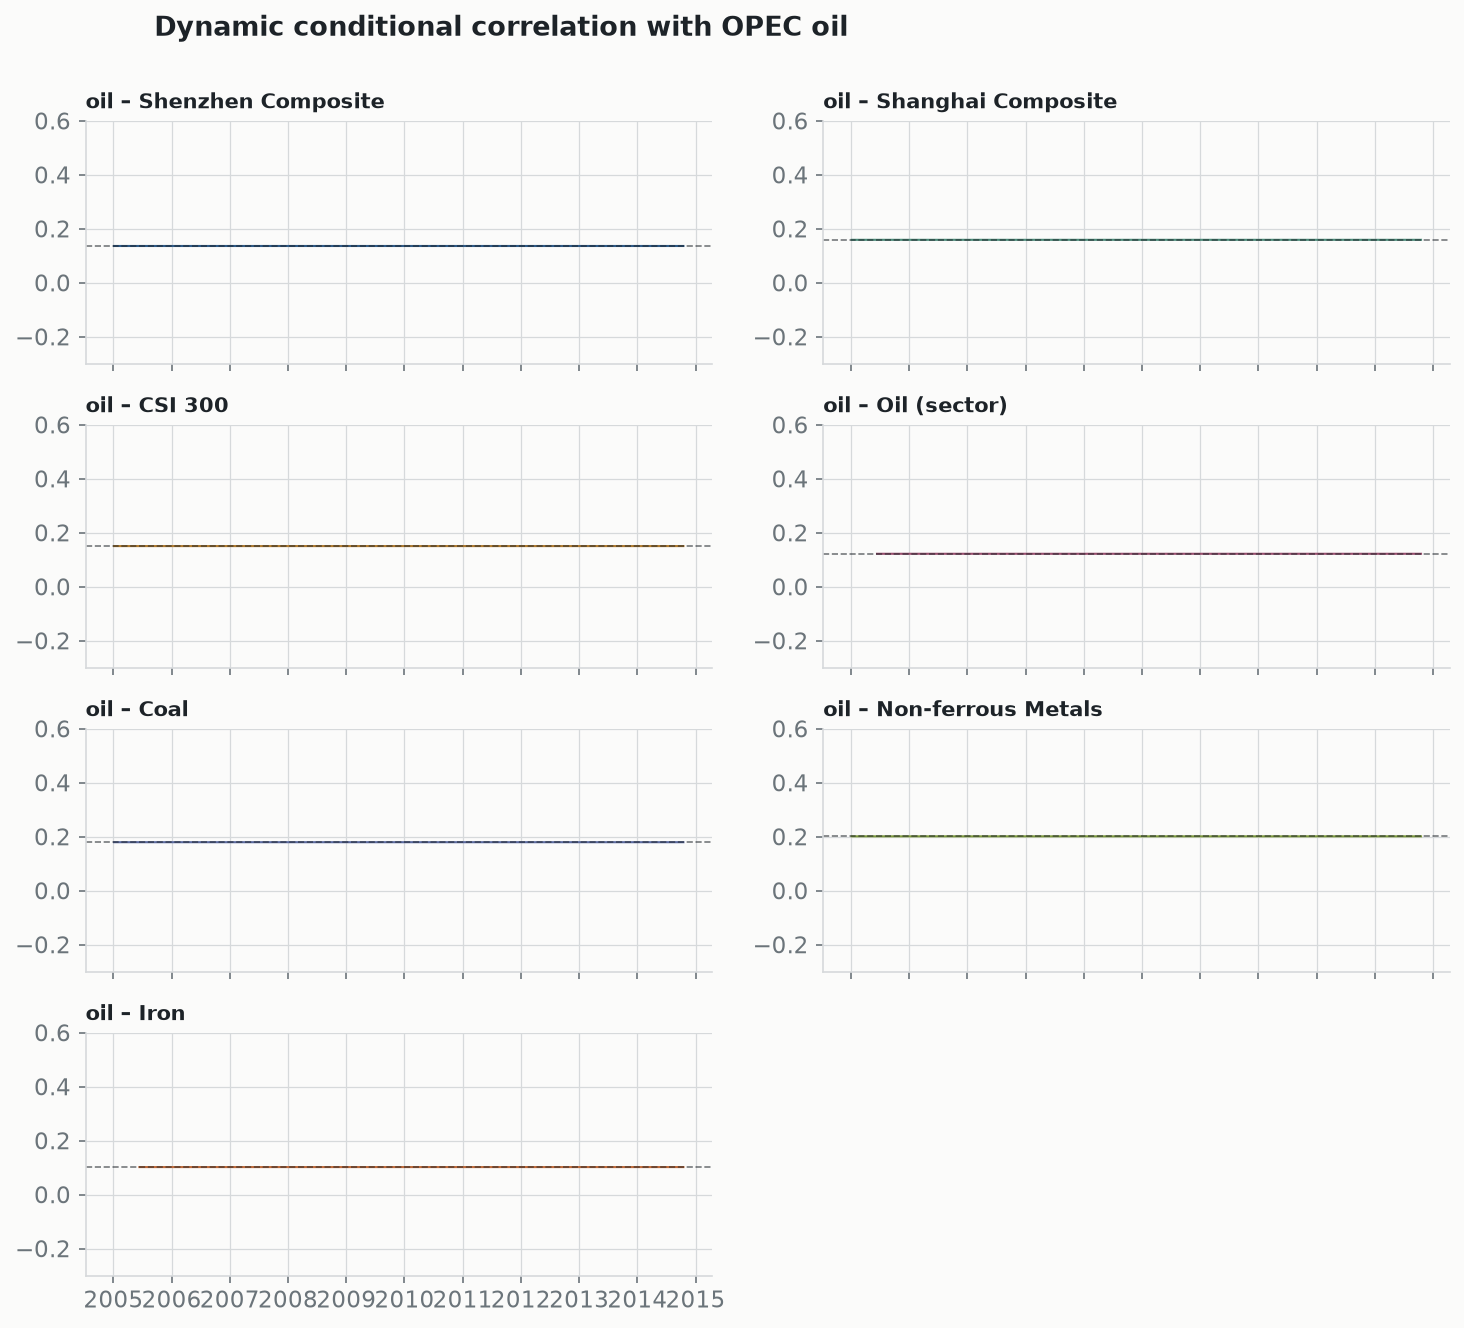
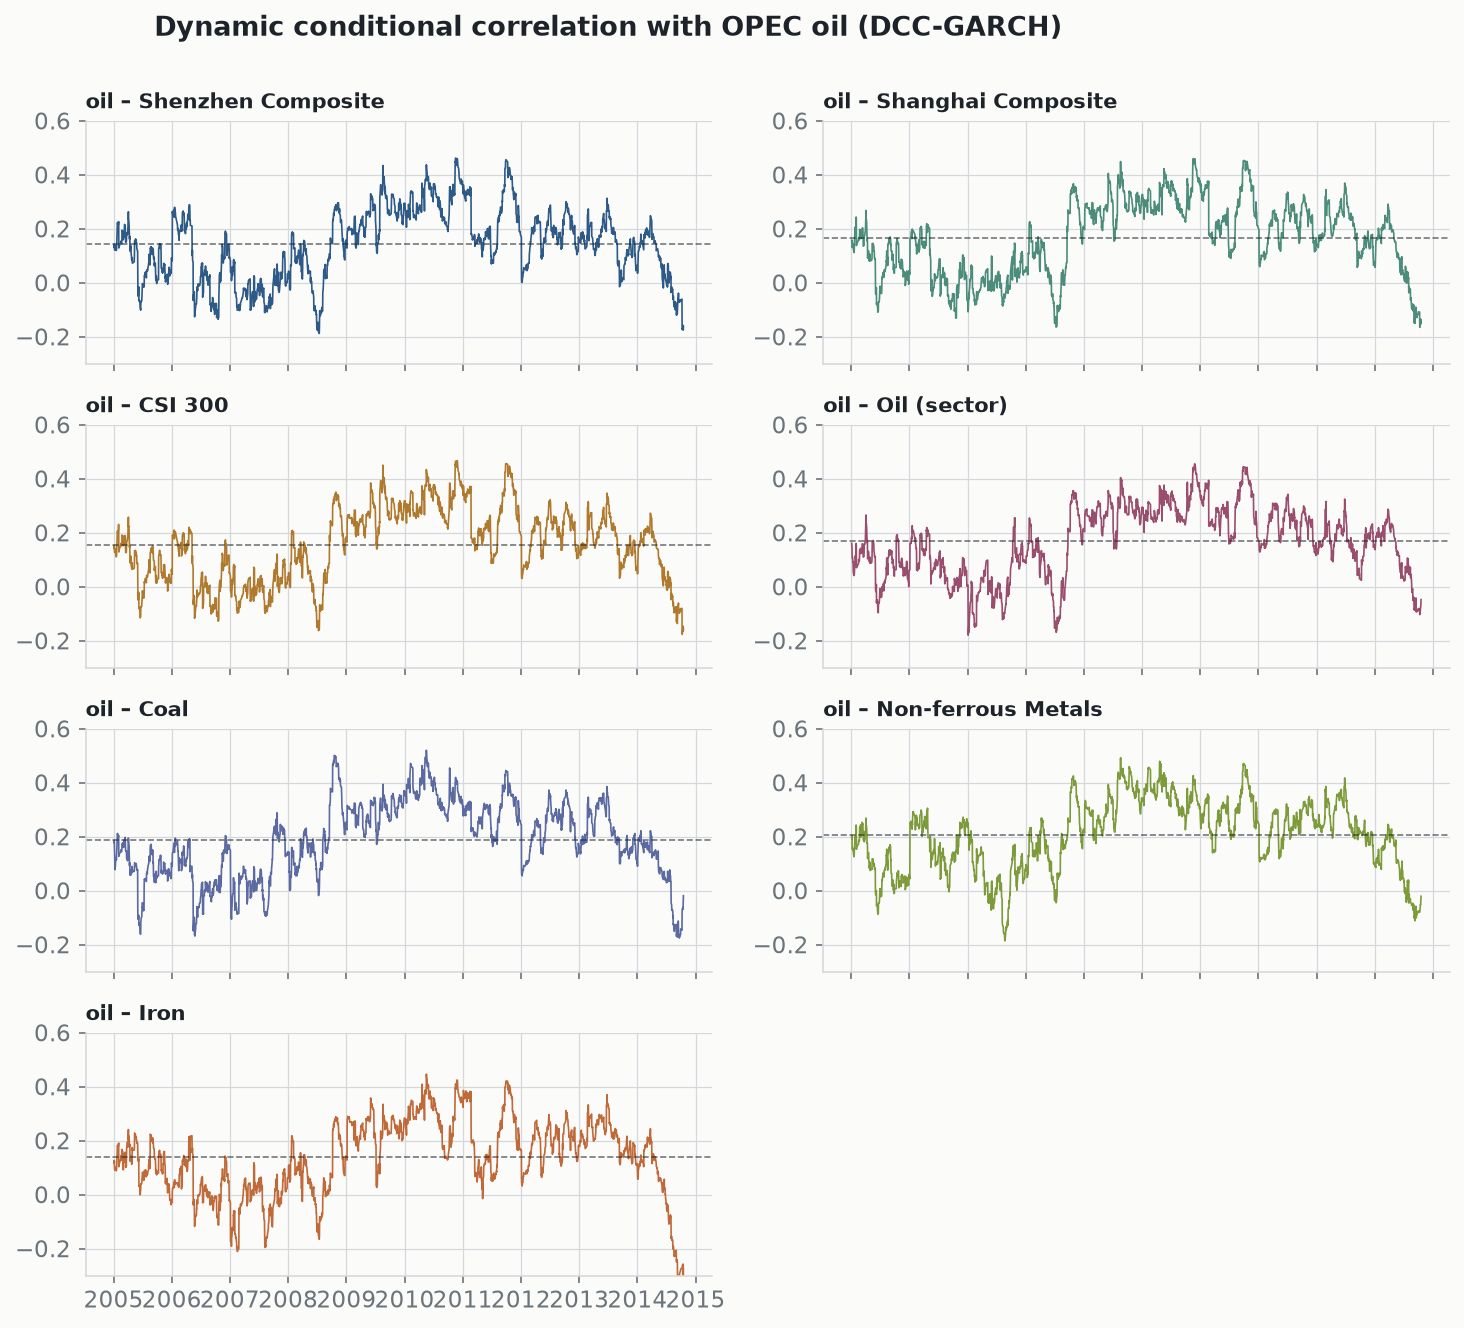
Fix dynamic-correlation figure: plot DCC (McAleer VAR-CCC holds correlation constant by construction)

diff --git a/src/spillover/plots.py b/src/spillover/plots.py
@@ -94,17 +94,27 @@ def fig_cond_vol(derived: dict[str, pd.DataFrame], out: Path) -> Path:
     return _save(fig, out, "fig3_conditional_volatility.png")
 
 
-def fig_dcc(derived: dict[str, pd.DataFrame], out: Path) -> Path:
+def fig_dcc(R_t, dates, out: Path) -> Path:
+    """Time-varying oil–market conditional correlations from the DCC-GARCH.
+
+    (The paper's McAleer VAR-CCC model holds correlation constant by
+    construction; the dynamic view comes from the Python DCC re-estimation.)
+    Oil is column 0 of R_t; markets are columns 1..7 in ``MARKETS`` order.
+    """
+    names = list(MARKETS.values())
     fig, axes = plt.subplots(4, 2, figsize=(10, 9), sharex=True)
-    for ax, (color, (code, name)) in zip(axes.ravel(), zip(SERIES, MARKETS.items())):
-        d = derived[code]
-        ax.plot(d.index, d["corr"], color=color, lw=1.0)
-        ax.axhline(d["corr"].mean(), color=INK, lw=0.8, ls="--", alpha=0.6)
+    for k, (ax, (color, name)) in enumerate(zip(axes.ravel(), zip(SERIES, names))):
+        series = R_t[:, 0, k + 1]
+        ax.plot(dates, series, color=color, lw=0.8)
+        ax.axhline(series.mean(), color=INK, lw=0.8, ls="--", alpha=0.6)
         ax.set_title(f"oil – {name}", fontsize=10, loc="left")
         ax.set_ylim(-0.3, 0.6)
         ax.margins(x=0.01)
     axes.ravel()[-1].axis("off")
-    fig.suptitle("Dynamic conditional correlation with OPEC oil", x=0.12, ha="left", fontsize=13, weight="bold")
+    fig.suptitle(
+        "Dynamic conditional correlation with OPEC oil (DCC-GARCH)",
+        x=0.12, ha="left", fontsize=13, weight="bold",
+    )
     fig.tight_layout(rect=(0, 0, 1, 0.98))
     return _save(fig, out, "fig4_dynamic_correlation.png")
 

diff --git a/src/spillover/__main__.py b/src/spillover/__main__.py
@@ -46,16 +46,15 @@ def main() -> int:
     he.round(4).to_csv(tables / "table2_hedging.csv")
     print(he.round(3).to_string())
 
-    print("[4/6] static figures")
+    print("[4/6] figures — prices, returns, conditional volatility, hedging")
     plots.fig_prices(prices, figs)
     plots.fig_returns(returns, figs)
     plots.fig_cond_vol(derived, figs)
-    plots.fig_dcc(derived, figs)
     plots.fig_hedge(derived, figs)
     plots.fig_effectiveness(he, figs)
 
     if args.no_dcc:
-        print("[5/6] DCC re-estimation skipped")
+        print("[5/6] DCC re-estimation skipped (correlation figures need it)")
         print("[6/6] done")
         return 0
 
@@ -64,7 +63,8 @@ def main() -> int:
     R_t, _, a, b = garch.fit_dcc(returns[cols])
     print(f"      DCC(a={a:.3f}, b={b:.3f}), persistence a+b={a + b:.3f}")
 
-    print("[6/6] correlation-matrix figure")
+    print("[6/6] dynamic-correlation figures")
+    plots.fig_dcc(R_t, returns.index, figs)
     short = {
         "SZ399001": "Shenzhen", "SG000001": "Shanghai", "HS000300": "CSI",
         "CI005001": "OilSec", "CI005002": "Coal", "CI005003": "Non-ferr", "CI005005": "Iron",

diff --git a/README.md b/README.md
@@ -16,11 +16,13 @@ This repository makes that analysis **reproducible in pure Python** — data pre
 
 ## Key findings, reproduced
 
-**Oil is weakly, and dynamically, linked to Chinese markets.** The conditional correlation with oil never rises far above 0.2, even through the 2008 crash — the central result of the paper.
+**Oil is weakly linked to Chinese markets, and the link is time-varying.** From the DCC-GARCH re-estimation, the conditional correlation with oil sits around 0.1–0.2 for most of the sample and rises during the 2008 global crisis, but never approaches the tight co-movement among the Chinese series.
 
 ![Dynamic conditional correlation](results/figures/fig4_dynamic_correlation.png)
 
-The same structure holds across regimes: in the correlation matrix below, the OPEC-oil row stays low (≈0.1–0.2) through the 2007 run-up, the 2008 crisis, and the later sample, while the Chinese series move tightly together (≈0.7–0.98).
+(The paper's published McAleer VAR-CCC model holds correlation *constant* by construction, so its time-variation lives entirely in the variances and hedge ratios; the time-varying correlation shown here comes from the Python DCC-GARCH re-estimation.)
+
+The correlation matrix makes the cross-section explicit: the OPEC-oil row stays low through the 2007 run-up, the 2008 crisis, and the later sample, while the Chinese series move tightly together (≈0.7–0.98).
 
 ![Conditional correlation matrix at three dates](results/figures/fig7_correlation_matrix.png)
 
